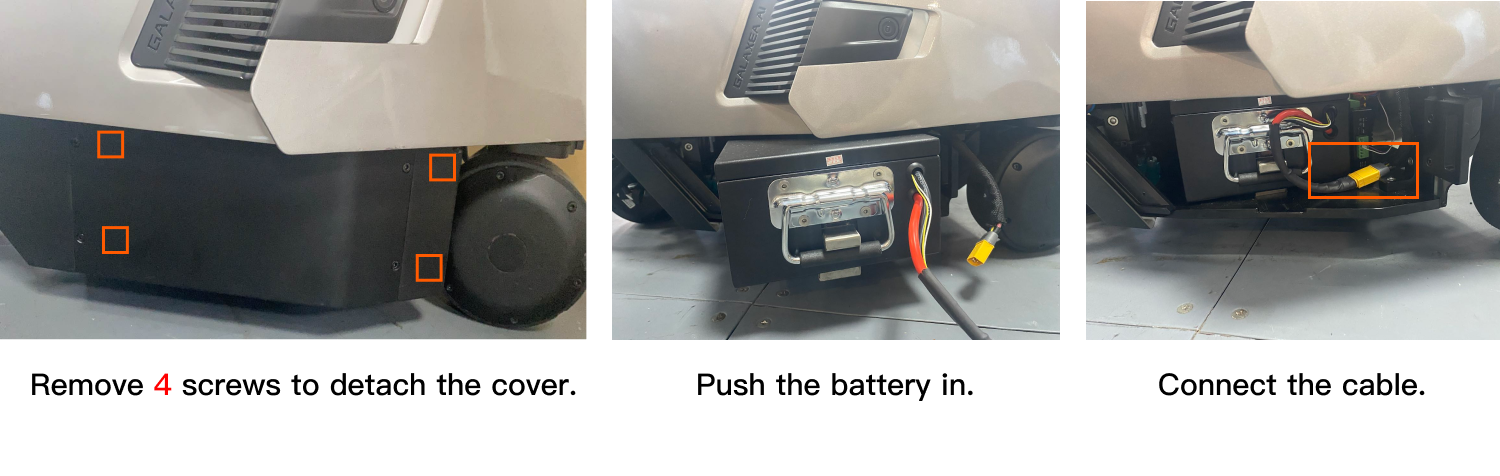
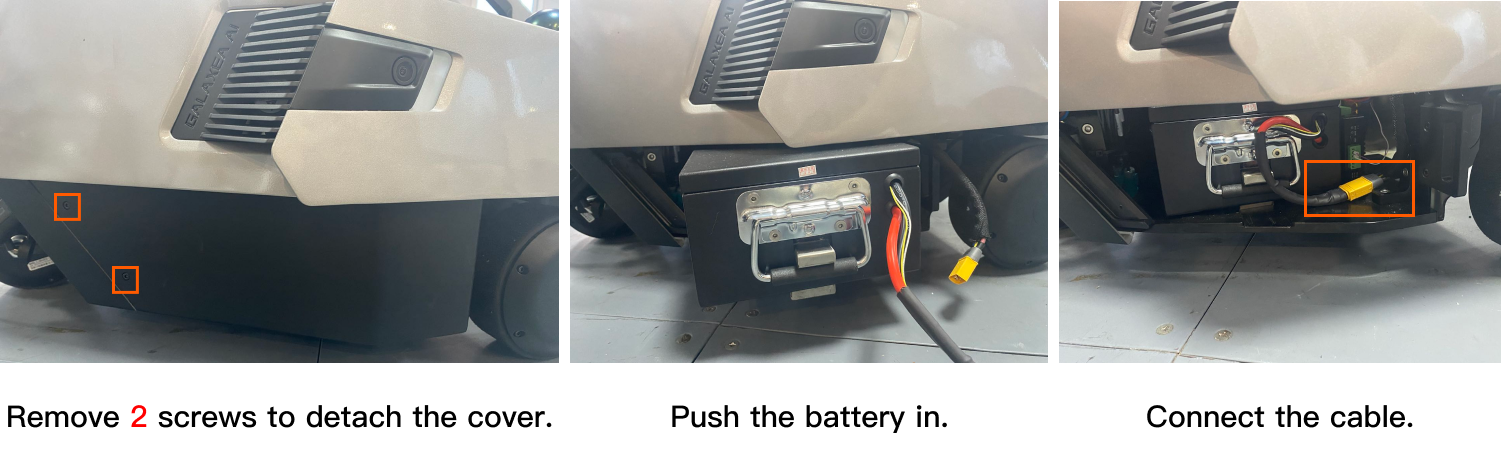
update R1 open guide

diff --git a/docs/Guide/A1/R1_Step_by_Step_Guide.md b/docs/Guide/A1/R1_Step_by_Step_Guide.md
@@ -30,7 +30,7 @@ Please ensure that the following items/environments are prepared before powering
 Locate two locks on the left side of the box, flip the lock tabs and rotate counterclockwise to open the front door. <u>You will see a folded R1 with head, chest cavity, torso, chassis and no arms installed, a sealed box containing a full set of screwdrivers and a joystick controller, and replacement wiring harnesses.</u>
 
 ### 2.2 Remove Box Fixings
-Lower the board. Remove six fixing screws inside the box, as shown in the figure. 
+Lower the board. Remove six fixing screws inside the box, as shown in the figure above. 
 
 ### 2.3 Pull It Out 
 It might require at least two people to pull the robot out of the box to avoid collision. 
@@ -70,13 +70,14 @@ Remove two M3 screws on the peripheral interface cover on the chassis. Connect H
 ![3.1_HDMI_Connecting](assets/3.1_HDMI_Connecting.png)
 
 Connect the mouse and keyboard to the USB ports. 
+
 <u>Note: Please ensure a firm connection to avoid cable looseness.</u>
 
 ![3.1_USB_Connecting](assets/3.1_USB_Connecting.png)
 
 ### 3.2 Power On
 
-The battery is located at the bottom of the right side of the chassis. Remove four screws and slide the cover right to detach it. Then, put the battery into the chassis, connect the battery cable, and close the cover. 
+The battery is located at the bottom of the right side of the chassis. Remove two screws and slide the cover right to detach it. Then, put the battery into the chassis, connect the battery cable, and close the cover. 
 To remove and change the battery, reverse those steps.
 
 ![3.2_battery_in](assets/3.2_battery_in.png)
@@ -160,7 +161,8 @@ source ~/work/ci_pipeline/workspace/body/install/setup.bash
 
 # Start the following launch files in different terminals in sequence.
 roslaunch HDAS hdas.launch
-roslaunch r1_jointTrackerdemo.launch
+roslaunch mobiman r1_jointTrackerdemo.launch
+roslaunch mobiman r1_chassis_control.launch
 ```
 
 **Step 2:** Switch SWA, SWD to the bottom, and switch SWB,SWC to the middle. 
